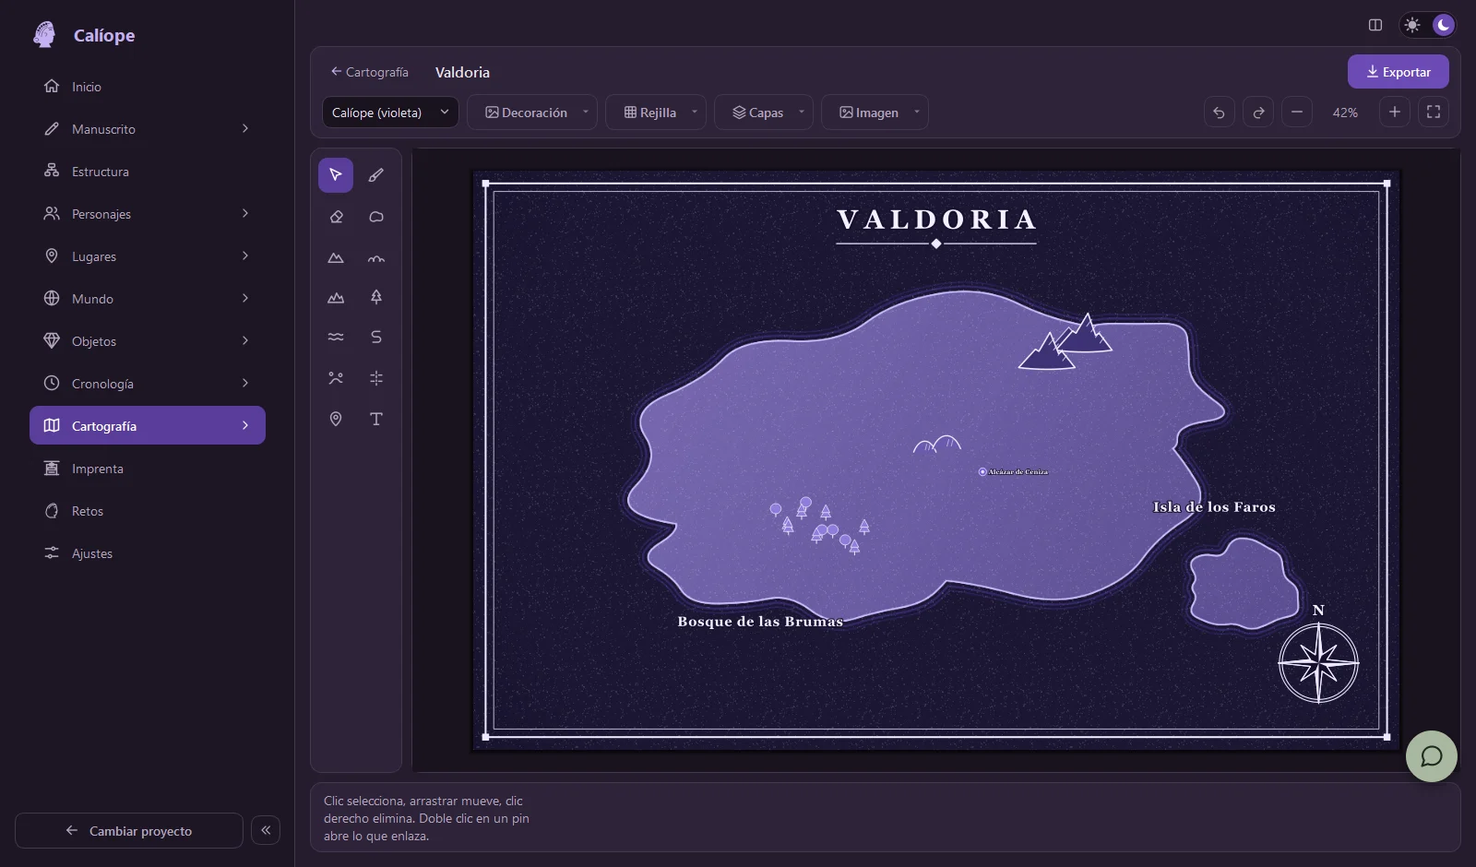
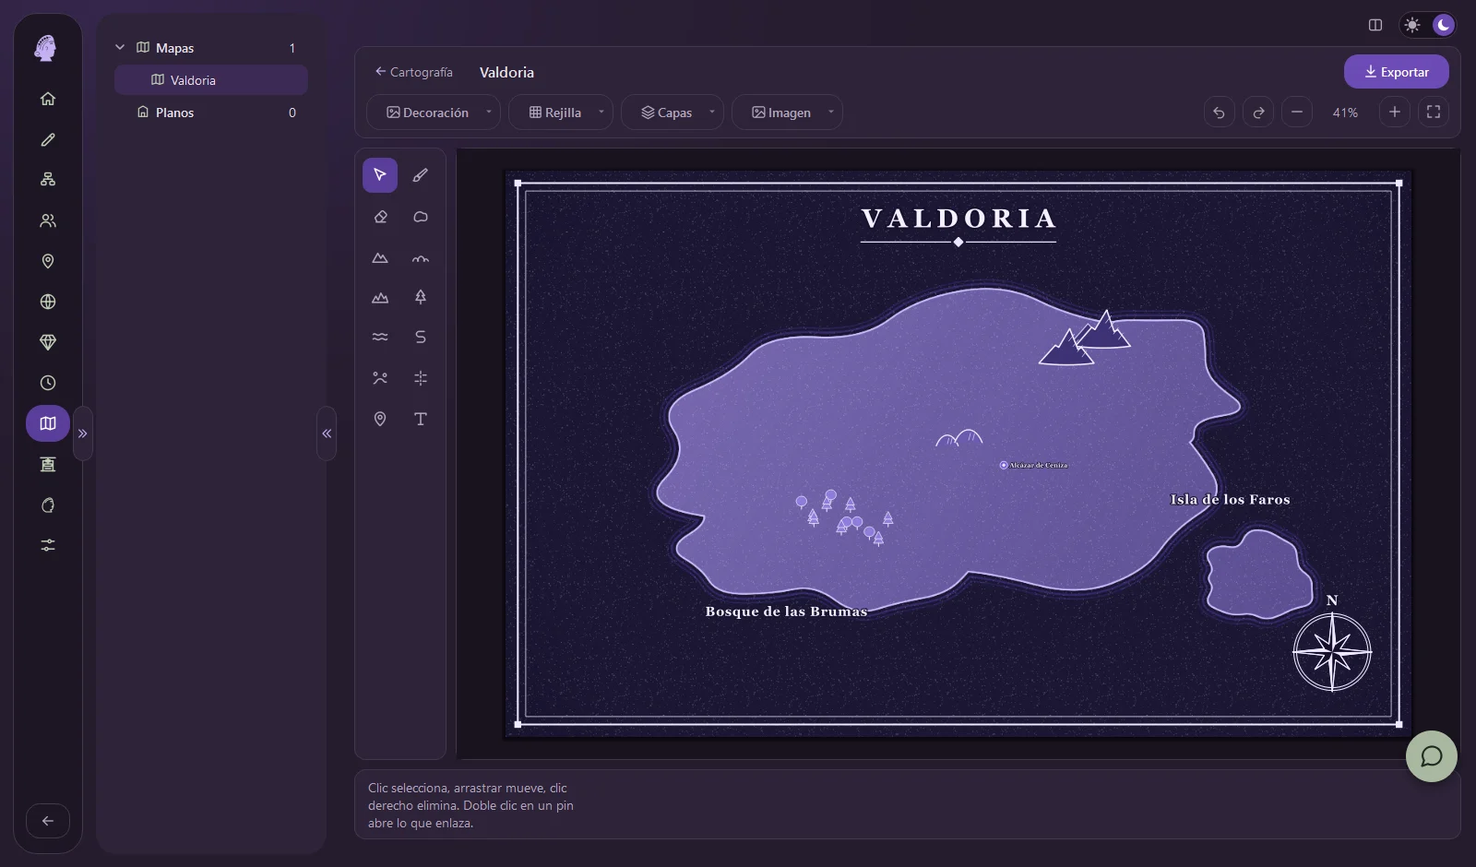
Calíope 2.0: nueva estética, Clío con modos Local e IA, web al día

diff --git a/docs/index.html b/docs/index.html
@@ -3,7 +3,7 @@
 <head>
 <meta charset="utf-8">
 <meta name="viewport" content="width=device-width, initial-scale=1">
-<meta name="caliope-version" content="1.14.2">
+<meta name="caliope-version" content="2.0.0">
 <title>Calíope — Invoca a tus musas. Da vida a tus mundos.</title>
 <meta name="description" content="Calíope es una aplicación de escritorio para escritores: manuscrito con revisión de continuidad, escaleta y matriz de ritmo, personajes, mundo, mapas, cronologías y exportación a EPUB, Kindle, DOCX y PDF. Todo en tu ordenador, sin cuentas ni nube.">
 <meta name="theme-color" content="#1b1422" media="(prefers-color-scheme: dark)">
@@ -31,13 +31,13 @@
         <span class="badge">Gratis · sin cuenta</span>
       </div>
       <div class="cta">
-        <a class="btn win" href="https://github.com/marinaescobar/caliope/releases/download/v1.14.2/Caliope-Setup-1.14.2.exe">
+        <a class="btn win" href="https://github.com/marinaescobar/caliope/releases/download/v2.0.0/Caliope-Setup-2.0.0.exe">
           <svg viewBox="0 0 24 24" fill="currentColor" aria-hidden="true"><path d="M3 5.5 10.5 4.4v7.1H3zm8.5-1.2L21 3v8.5h-9.5zM3 12.5h7.5v7.1L3 18.5zm8.5 0H21V21l-9.5-1.3z"/></svg>
-          <span>Descargar para Windows<small>Instalador .exe · v1.14.2</small></span>
+          <span>Descargar para Windows<small>Instalador .exe · v2.0.0</small></span>
         </a>
-        <a class="btn mac" href="https://github.com/marinaescobar/caliope/releases/download/v1.14.2/Caliope-1.14.2-macOS-arm64.dmg">
+        <a class="btn mac" href="https://github.com/marinaescobar/caliope/releases/download/v2.0.0/Caliope-2.0.0-macOS-arm64.dmg">
           <svg viewBox="0 0 24 24" fill="currentColor" aria-hidden="true"><path d="M16.4 12.6c0-2.3 1.9-3.4 2-3.5-1.1-1.6-2.8-1.8-3.4-1.8-1.4-.1-2.8.9-3.5.9s-1.8-.8-3-.8c-1.5 0-3 .9-3.8 2.3-1.6 2.8-.4 7 1.2 9.3.8 1.1 1.7 2.4 2.9 2.3 1.2 0 1.6-.7 3-.7s1.8.7 3 .7c1.3 0 2.1-1.1 2.8-2.3.9-1.3 1.3-2.5 1.3-2.6-.1 0-2.5-1-2.5-3.8zM14.1 5.8c.6-.8 1.1-1.8.9-2.9-.9 0-2 .6-2.7 1.4-.6.7-1.1 1.8-.9 2.8 1 .1 2-.5 2.7-1.3z"/></svg>
-          <span>Descargar para Mac<small>.dmg · Apple Silicon · v1.14.2</small></span>
+          <span>Descargar para Mac<small>.dmg · Apple Silicon · v2.0.0</small></span>
         </a>
       </div>
     </div>
@@ -87,7 +87,7 @@
       <div class="card" tabindex="0">
         <svg class="ic" viewBox="0 0 24 24" fill="none" stroke="currentColor" stroke-width="1.5" stroke-linecap="round" stroke-linejoin="round" aria-hidden="true"><path d="m3 6 6-2 6 2 6-2v14l-6 2-6-2-6 2z"/><path d="M9 4v14M15 6v14"/></svg>
         <h3>Cartografía</h3>
-        <p>Mapas de mundos y planos de ciudades con estilos, rejilla, símbolos y <b>pines que abren la ficha</b> del lugar. Exporta a imagen.</p>
+        <p>Mapas de mundos y planos de ciudades con capas, rejilla, símbolos y <b>pines que abren la ficha</b> del lugar. Exporta a imagen.</p>
       </div>
       <div class="card" tabindex="0">
         <svg class="ic" viewBox="0 0 24 24" fill="none" stroke="currentColor" stroke-width="1.5" stroke-linecap="round" stroke-linejoin="round" aria-hidden="true"><path d="m12 3 9 5-9 5-9-5z"/><path d="m3 13 9 5 9-5M3 17.5l9 5 9-5" opacity=".6"/></svg>
@@ -101,6 +101,7 @@
       </div>
     </div>
     <div class="chips">
+      <span class="chip">Nueva estética 2.0</span>
       <span class="chip">Tema oscuro y claro</span>
       <span class="chip">Español e inglés</span>
       <span class="chip">Corrector y sinónimos offline</span>
@@ -137,7 +138,7 @@
         <div class="panel p2"><div class="frame"><img src="img/escaleta.webp" width="1600" height="720" alt="Escaleta de Calíope organizada por actos, con tarjetas de escena y su punto de vista"></div><p>La escaleta por actos, con subtramas de color y tarjetas de escena o de capítulo.</p></div>
         <div class="panel p3"><div class="frame"><img src="img/personajes.webp" width="1600" height="940" alt="Ficha de personaje con enlaces a su dinastía, sus escenas y sus posesiones"></div><p>Fichas enlazadas: del personaje a su dinastía, sus escenas y lo que posee.</p></div>
         <div class="panel p4"><div class="frame"><img src="img/relaciones.webp" width="1600" height="940" alt="Mapa de relaciones de un personaje con sus vínculos de colores"></div><p>Quién es quién para quién, con vínculos que se adaptan al género de cada ficha.</p></div>
-        <div class="panel p5"><div class="frame"><img src="img/genealogias.webp" width="1600" height="940" alt="Árbol genealógico de la Casa Marwen en estilo elegante"></div><p>Árboles con líneas rectas y sin cruces, en tres estilos.</p></div>
+        <div class="panel p5"><div class="frame"><img src="img/genealogias.webp" width="1600" height="940" alt="Árbol genealógico de la Casa Marwen"></div><p>Árboles con líneas rectas y sin cruces, con el lema y el emblema de cada casa.</p></div>
         <div class="panel p6"><div class="frame"><img src="img/cronologia.webp" width="1600" height="940" alt="Línea temporal de un mundo inventado con un calendario propio y dos edades"></div><p>Líneas temporales con un calendario inventado y edades a tu medida.</p></div>
         <div class="panel p7"><div class="frame"><img src="img/mapa.webp" width="1600" height="940" alt="Editor de mapas con un continente de fantasía, título y rosa de los vientos"></div><p>Mapas de mundos y ciudades con pines enlazados a tus fichas.</p></div>
       </div>
@@ -239,12 +240,12 @@
             <p>Un mapa de vínculos y árboles genealógicos que se mantienen iguales entre sí: dibujas uno y el otro se entera.</p>
             <ul class="list">
               <li><b>Más de noventa tipos de vínculo</b> que se adaptan al género de cada ficha («Hija», «Hijo», «Hije»).</li>
-              <li>Árboles con <b>líneas rectas y sin cruces</b>, en tres estilos: minimalista, elegante y fantasía.</li>
+              <li>Árboles con <b>líneas rectas y sin cruces</b>, que se ordenan solos por generaciones.</li>
               <li>Relaciones de familia y árboles <b>sincronizados en los dos sentidos</b>.</li>
               <li>Dinastías con lema, familiares sin ficha y acceso directo a cada personaje.</li>
             </ul>
           </div>
-          <div class="frame"><div class="bar"><i></i><i></i><i></i></div><img src="img/genealogias.webp" width="1600" height="940" alt="Árbol genealógico de la Casa Marwen en estilo elegante, con líneas rectas y sin cruces" loading="lazy"></div>
+          <div class="frame"><div class="bar"><i></i><i></i><i></i></div><img src="img/genealogias.webp" width="1600" height="940" alt="Árbol genealógico de la Casa Marwen, con líneas rectas y sin cruces" loading="lazy"></div>
         </div>
       </details>
       <details name="mas">
@@ -334,7 +335,7 @@
         </summary>
         <div class="body">
           <div>
-            <p>Tu escena a un lado y, al otro, otra escena, un capítulo o la ficha de un personaje, un lugar, una entrada del Mundo o un objeto.</p>
+            <p>Tu escena a un lado y, al otro, <b>cualquier sección de Calíope</b>: otra escena, una ficha, la Escaleta, la Cronología o un mapa.</p>
             <ul class="list">
               <li>En <b>columnas</b> si hay sitio y en <b>filas</b> cuando la ventana se estrecha, para que el texto siga cómodo de leer.</li>
               <li>Se abre con el botón de arriba a la derecha o con clic derecho › <b>«Abrir en división de pantalla»</b>.</li>
@@ -342,7 +343,7 @@
               <li>Nunca se divide en el Modo Foco ni en el Ultra Foco.</li>
             </ul>
           </div>
-          <div class="splitviz" role="img" aria-label="Ilustración de una pantalla dividida: a la izquierda una escena y a la derecha la ficha de un personaje, separadas por una línea fina">
+          <div class="splitviz" role="img" aria-label="Ilustración de una pantalla dividida: a la izquierda una escena y a la derecha la ficha de un personaje">
             <div class="pane"><b>Escena</b><i></i><i></i><i class="s"></i><i></i><i class="s"></i></div>
             <div class="pane"><b>Personaje</b><i class="s"></i><i></i><i class="s"></i><i></i><i></i></div>
           </div>
@@ -402,19 +403,23 @@
     <div class="sec-head c">
       <span class="eyebrow">Más compañía, si la quieres</span>
       <h2>¿Y si llamamos a más musas?</h2>
-      <p>Calíope ya está contigo. Si te apetece algo más de compañía, hay dos musas más. Las dos son opcionales y se apagan desde Ajustes.</p>
+      <p>Calíope ya está contigo. Si te apetece algo más de compañía, hay dos musas más. Las dos son opcionales y se apagan desde Ajustes. Pasa el ratón por una, o púlsala, para verla en acción.</p>
     </div>
     <div class="muses">
       <article class="muse" tabindex="0">
         <img src="assets/clio.png" width="64" height="64" alt="Retrato de Clío" loading="lazy">
-        <h3>Clío <span class="tag ai">Usa IA</span> <span class="tag">Opcional</span></h3>
+        <h3>Clío <span class="tag noai">Local · sin IA</span> <span class="tag ai">IA · opcional</span></h3>
         <div class="role">La musa de la investigación</div>
-        <p>Un chat para dudas factuales: una fecha, una costumbre, el nombre de una pieza de armadura.</p>
-        <p>Es la <b>única parte de Calíope con inteligencia artificial</b> y está <b>aislada de tu proyecto</b>: no lee tu manuscrito, tus fichas ni tu base de datos. Solo recibe lo que le preguntes en su chat, con tu propia clave.</p>
-        <div class="example" aria-label="Ejemplo de una conversación con Clío">
-          <span class="ex-label">Así se ve su chat</span>
+        <p>Un chat con dos modos, que cambias con un clic en la etiqueta junto a su nombre.</p>
+        <p><b>Local</b>, con el que empieza siempre: <b>no es una IA</b>. Busca en tus fichas y escenas y te recuerda cualquier dato de tu historia. Nada sale de tu ordenador.</p>
+        <p><b>IA</b>, para dudas de historia, ciencia o geografía: es la <b>única parte de Calíope con inteligencia artificial</b> y está <b>aislada de tu proyecto</b>. Solo recibe lo que le preguntes en su chat, con tu propia clave.</p>
+        <div class="example" aria-label="Ejemplo de una conversación con Clío en cada modo">
+          <span class="ex-label">Clío <span class="pill local">Local</span></span>
+          <div class="bubble you">¿Cuánto mide Ilena?</div>
+          <div class="bubble bot">La altura de Ilena es 1,68 m.</div>
+          <span class="ex-label">Clío <span class="pill ia">IA</span></span>
           <div class="bubble you">¿Qué es una brigantina?</div>
-          <div class="bubble bot">Una armadura medieval de tela o cuero con pequeñas placas de metal remachadas por dentro: más flexible que una cota de placas y más ligera de llevar.</div>
+          <div class="bubble bot">Una armadura medieval de tela o cuero con pequeñas placas de metal remachadas por dentro.</div>
         </div>
       </article>
       <article class="muse" tabindex="0">
@@ -438,18 +443,18 @@
 <section id="descargar" class="s-deep">
   <div class="wrap">
     <div class="sec-head c" style="margin-bottom:0">
-      <span class="eyebrow">Versión 1.14.2</span>
+      <span class="eyebrow">Versión 2.0.0</span>
       <h2>Empieza a escribir hoy</h2>
       <p>Gratis, sin registro y sin conexión. Elige tu sistema.</p>
     </div>
     <div class="cta">
-      <a class="btn win" href="https://github.com/marinaescobar/caliope/releases/download/v1.14.2/Caliope-Setup-1.14.2.exe">
+      <a class="btn win" href="https://github.com/marinaescobar/caliope/releases/download/v2.0.0/Caliope-Setup-2.0.0.exe">
         <svg viewBox="0 0 24 24" fill="currentColor" aria-hidden="true"><path d="M3 5.5 10.5 4.4v7.1H3zm8.5-1.2L21 3v8.5h-9.5zM3 12.5h7.5v7.1L3 18.5zm8.5 0H21V21l-9.5-1.3z"/></svg>
-        <span>Windows<small>Caliope-Setup-1.14.2.exe</small></span>
+        <span>Windows<small>Caliope-Setup-2.0.0.exe</small></span>
       </a>
-      <a class="btn mac" href="https://github.com/marinaescobar/caliope/releases/download/v1.14.2/Caliope-1.14.2-macOS-arm64.dmg">
+      <a class="btn mac" href="https://github.com/marinaescobar/caliope/releases/download/v2.0.0/Caliope-2.0.0-macOS-arm64.dmg">
         <svg viewBox="0 0 24 24" fill="currentColor" aria-hidden="true"><path d="M16.4 12.6c0-2.3 1.9-3.4 2-3.5-1.1-1.6-2.8-1.8-3.4-1.8-1.4-.1-2.8.9-3.5.9s-1.8-.8-3-.8c-1.5 0-3 .9-3.8 2.3-1.6 2.8-.4 7 1.2 9.3.8 1.1 1.7 2.4 2.9 2.3 1.2 0 1.6-.7 3-.7s1.8.7 3 .7c1.3 0 2.1-1.1 2.8-2.3.9-1.3 1.3-2.5 1.3-2.6-.1 0-2.5-1-2.5-3.8zM14.1 5.8c.6-.8 1.1-1.8.9-2.9-.9 0-2 .6-2.7 1.4-.6.7-1.1 1.8-.9 2.8 1 .1 2-.5 2.7-1.3z"/></svg>
-        <span>Mac · Apple Silicon<small>Caliope-1.14.2-macOS-arm64.dmg</small></span>
+        <span>Mac · Apple Silicon<small>Caliope-2.0.0-macOS-arm64.dmg</small></span>
       </a>
     </div>
     <div class="steps">

diff --git a/docs/css/style.css b/docs/css/style.css
@@ -264,3 +264,57 @@ footer .links{display:flex;flex-wrap:wrap;gap:8px 22px}
 @media (prefers-color-scheme:light){.more details{background:var(--card)}}
 @media (prefers-reduced-motion:reduce){.more details[open] .body{animation:none}}
 .more summary,.more .sample,.more .splitviz{-webkit-user-select:none;user-select:none}
+
+/* ===== Estética Bento (2.0): islas redondeadas sin bordes, botones píldora, un solo brillo de fondo y barras finas moradas ===== */
+html{scrollbar-width:thin;scrollbar-color:var(--accent) transparent}
+.hero{background:radial-gradient(ellipse 55% 70% at 100% 100%,color-mix(in srgb,var(--sage) 20%,transparent) 0%,transparent 70%),
+  radial-gradient(ellipse 70% 90% at 12% 0%,color-mix(in srgb,var(--accent) 26%,var(--deep)) 0%,var(--deep) 62%)}
+.btn{border-radius:999px;padding:12px 24px}
+.frame{border-radius:22px;border-color:transparent}
+.frame .bar{border-bottom-color:transparent}
+.card,.muse,.step,.more details,.sample,.splitviz{border-radius:22px;border-color:transparent}
+.card:hover,.muse:hover,.step:hover,.more details:hover,.more details[open]{border-color:var(--sage)}
+.step{background:var(--card)}
+.cmd{border-radius:16px;border-color:transparent}
+.badge,.chip{border-color:transparent;background:var(--card)}
+.s-mid .chip{background:var(--sidebar)}
+.fmt{border-radius:999px;background:var(--sage);color:var(--on-sage)}
+.tabs{display:flex;width:fit-content;max-width:100%;margin:0 auto 20px;padding:4px;gap:4px;border-radius:24px;background:var(--deep);border:1px solid var(--border)}
+.tabs label{border:0;display:inline-flex;align-items:center}
+.more summary:focus-visible{border-radius:22px}
+.tag{border-color:transparent}
+.tag.ai,.tag.noai{border-color:transparent}
+.tag.ai{background:color-mix(in srgb,#D9824B 24%,transparent);color:#E0A070}
+.tag.noai{background:color-mix(in srgb,var(--accent) 24%,transparent);color:var(--accent-text)}
+.muse .ex-label{display:flex;align-items:center;gap:8px;text-transform:none;letter-spacing:0;font-size:.95rem;font-weight:700;color:var(--text);margin-top:4px}
+.muse .pill{font-size:.72rem;font-weight:500;padding:2px 10px;border-radius:999px}
+.muse .pill.local{background:color-mix(in srgb,var(--accent) 24%,transparent);color:var(--accent-text)}
+.muse .pill.ia{background:color-mix(in srgb,#D9824B 24%,transparent);color:#E0A070}
+.muse .bubble{border-radius:16px}
+.muse .bubble.you{background:var(--sage);color:var(--on-sage)}
+.muse .bubble.bot{border-color:transparent;background:var(--deep)}
+.muse .toast{border-radius:16px;border-color:transparent;border-left:3px solid var(--accent-text)}
+.muse:hover .example,.muse:focus .example,.muse:focus-within .example{max-height:460px}
+@media (hover:none){.muse .example{max-height:460px}}
+@media (prefers-color-scheme:light){
+  .tag.ai,.muse .pill.ia{color:#8A5630}
+  .badge,.chip{border-color:var(--border)}
+}
+@media (max-width:767px){.tabs{border-radius:20px;justify-content:center}}
+
+/* El verde salvia de Calíope, con más presencia: iconos en ficha salvia, una franja entera y detalles */
+.card .ic,.more summary .ic{background:var(--sage);color:var(--on-sage);border-radius:9px;box-shadow:0 0 0 8px var(--sage)}
+.more summary .ic{margin:0 8px}
+.more summary{gap:18px}
+.cmd svg{color:var(--on-sage);background:var(--sage);box-shadow:0 0 0 6px var(--sage);animation:none;margin:0 6px}
+.chip{color:var(--sage-text)}
+.muse .role{font-weight:600}
+#privacidad{background:var(--sage)}
+#privacidad .eyebrow,#privacidad .sec-head h2{color:var(--on-sage)}
+#privacidad .sec-head p{color:color-mix(in srgb,var(--on-sage) 82%,var(--sage))}
+#privacidad .card{background:var(--deep)}
+#privacidad .card h3{color:var(--sage-text)}
+#privacidad .card:hover,#privacidad .card:focus-visible{border-color:var(--on-sage)}
+#descargar .sec-head h2{color:var(--sage-text)}
+.step h3{color:var(--sage-text)}
+footer{border-top:3px solid var(--sage)}

diff --git a/README.md b/README.md
@@ -12,11 +12,11 @@ Aplicación de escritorio para escritores: organiza tu novela en partes, capítu
 
 ## ⬇ Descargar
 
-<a href="https://github.com/marinaescobar/caliope/releases/download/v1.14.2/Caliope-Setup-1.14.2.exe"><img src="https://img.shields.io/badge/Descargar%20para-Windows%20(.exe)-6C4AB6?style=for-the-badge&logo=windows&logoColor=white" alt="Descargar para Windows"></a>
+<a href="https://github.com/marinaescobar/caliope/releases/download/v2.0.0/Caliope-Setup-2.0.0.exe"><img src="https://img.shields.io/badge/Descargar%20para-Windows%20(.exe)-6C4AB6?style=for-the-badge&logo=windows&logoColor=white" alt="Descargar para Windows"></a>
 &nbsp;
-<a href="https://github.com/marinaescobar/caliope/releases/download/v1.14.2/Caliope-1.14.2-macOS-arm64.dmg"><img src="https://img.shields.io/badge/Descargar%20para-Mac%20Apple%20Silicon%20(.dmg)-A8B89F?style=for-the-badge&logo=apple&logoColor=1F2820&labelColor=A8B89F&color=A8B89F" alt="Descargar para Mac con Apple Silicon"></a>
+<a href="https://github.com/marinaescobar/caliope/releases/download/v2.0.0/Caliope-2.0.0-macOS-arm64.dmg"><img src="https://img.shields.io/badge/Descargar%20para-Mac%20Apple%20Silicon%20(.dmg)-A8B89F?style=for-the-badge&logo=apple&logoColor=1F2820&labelColor=A8B89F&color=A8B89F" alt="Descargar para Mac con Apple Silicon"></a>
 
-<sub>Versión 1.14.2 · [Página web](https://marinaescobar.github.io/caliope/) · [Todas las versiones y novedades](https://github.com/marinaescobar/caliope/releases)</sub>
+<sub>Versión 2.0.0 · [Página web](https://marinaescobar.github.io/caliope/) · [Todas las versiones y novedades](https://github.com/marinaescobar/caliope/releases)</sub>
 
 </div>
 
@@ -24,8 +24,8 @@ Aplicación de escritorio para escritores: organiza tu novela en partes, capítu
 
 | Tu equipo | Archivo | Enlace directo |
 |---|---|---|
-| 🪟 **Windows** 10 / 11 | `Caliope-Setup-1.14.2.exe` | [Descargar](https://github.com/marinaescobar/caliope/releases/download/v1.14.2/Caliope-Setup-1.14.2.exe) |
-| 🍎 **Mac con chip Apple** (M1, M2, M3, M4…) | `Caliope-1.14.2-macOS-arm64.dmg` | [Descargar](https://github.com/marinaescobar/caliope/releases/download/v1.14.2/Caliope-1.14.2-macOS-arm64.dmg) |
+| 🪟 **Windows** 10 / 11 | `Caliope-Setup-2.0.0.exe` | [Descargar](https://github.com/marinaescobar/caliope/releases/download/v2.0.0/Caliope-Setup-2.0.0.exe) |
+| 🍎 **Mac con chip Apple** (M1, M2, M3, M4…) | `Caliope-2.0.0-macOS-arm64.dmg` | [Descargar](https://github.com/marinaescobar/caliope/releases/download/v2.0.0/Caliope-2.0.0-macOS-arm64.dmg) |
 
 ### Instalar en Windows
 Ejecuta el `.exe` y sigue el asistente (no necesita permisos de administrador). Si Windows SmartScreen avisa, pulsa **Más información › Ejecutar de todas formas**: el instalador aún no está firmado.
@@ -45,7 +45,7 @@ Calíope busca e instala actualizaciones desde **Ajustes › Información de Cal
 
 - **Manuscrito** por partes, capítulos y escenas, con propósito, resumen e ideas en cada nivel, importación de manuscritos (`.docx`, `.pdf`, `.txt`) y un panel de análisis con gráficos y recomendaciones.
 - **Formato de texto** en las escenas: negrita, cursiva, subrayado y tachado (`Ctrl+B`, `Ctrl+I`, `Ctrl+U`, `Ctrl+Mayús+X` o los botones de la barra). Se guarda con la escena y con cada versión, viaja en las copias `.clp` y llega a la exportación (EPUB, Kindle, DOCX y PDF).
-- **Pantalla dividida**: abre al lado de lo que haces otra escena, un capítulo o la ficha de un personaje, un lugar, una entrada del Mundo o un objeto (botón de arriba a la derecha o clic derecho › «Abrir en división de pantalla»). En columnas si hay sitio y en filas si la ventana se estrecha; nunca en el Modo Foco ni en el Ultra Foco.
+- **Pantalla dividida**: abre al lado de lo que haces cualquier otra sección de Calíope, o una escena, un capítulo o una ficha (botón de arriba a la derecha o clic derecho › «Abrir en división de pantalla»). En columnas si hay sitio y en filas si la ventana se estrecha; nunca en el Modo Foco ni en el Ultra Foco.
 - **Continuidad** (pestaña del Manuscrito, 100 % local y sin IA): cruza tus escenas con tus fichas y cronologías y avisa de apellidos y nombres que cambian o llevan una errata, de rasgos que no casan con la ficha (ojos, cabello, religión, gobierno, clima…), de una prenda o una narración que cambia dentro de la escena y de personajes que aparecen tras su muerte. «Corregir» respeta género y número; «Ignorar…» guarda tu motivo.
 - **Inicio** con tu racha y meta, los avisos de Continuidad sin revisar y los datos de ritmo de la Matriz, y **aviso de versión nueva** al abrir Calíope (pulsarlo descarga e instala la actualización).
 - **Ficha de personaje** con sus familias, escenas, POVs, cronologías y posesiones en desplegables con buscador.
@@ -57,7 +57,8 @@ Calíope busca e instala actualizaciones desde **Ajustes › Información de Cal
 - **Objetos y artefactos**: armas y armaduras, reliquias, vestimenta, vehículos, documentos y herramientas, con ficha por categoría, ilustración, portador y ubicación enlazados a tus personajes y lugares (cada personaje tiene su inventario y cada lugar, sus objetos presentes).
 - **Cronología**: líneas temporales con eventos (fechas, imágenes, descripción), Edades como «Edad Media» con su color, y **calendarios** incluidos (gregoriano, juliano, chino, hebreo, islámico…) o creados por ti, con sus meses, su semana y su origen. La fecha se escribe (`2025-05-10`) o se elige en un calendario emergente construido con la estructura del calendario.
 - **Retos de Talía**: meta diaria de palabras, racha de días, desafíos creativos y Modo Foco con temporizador y avisos discretos de Talía que te acompañan mientras escribes (saludo diario, metas, rachas, retos, insignias y fichas completadas) y, con la aplicación abierta, comenta cada media hora tu historia y tu Mundo con preguntas, curiosidades y consejos. **Talía no es una IA** ([cómo funciona](#talía-no-es-una-ia)): todo ocurre en tu equipo y se ajusta o se desactiva en Ajustes.
-- **Clío**, una musa de la investigación para dudas factuales. Es la única parte de Calíope que usa inteligencia artificial.
+- **Clío**, la musa de la investigación, con dos modos que cambias con un clic. **Local** (por defecto): no es una IA; busca en tus fichas y escenas para recordarte cualquier dato de tu historia, sin que nada salga de tu equipo. **IA**: para dudas factuales (historia, ciencia, geografía…); es la única parte de Calíope que usa inteligencia artificial y no ve tu proyecto.
+- **Nueva estética** (2.0): menú y submenú en islas flotantes, tarjetas redondeadas sin bordes y una sola estética en Escaleta, Genealogías y Cronología.
 - **Modo Ultra Foco** (opcional, en Ajustes): sustituye al Modo Foco con una pantalla completa de lienzo estrecho, **22 ambientes reales** (lluvia, bosque, agua, fuego, noche, cafeterías…), dos grabaciones de **máquina de escribir** a elegir, ocho fondos con vista previa y selección de la salida de audio. Todo en local; créditos de los sonidos en [`THIRD_PARTY.md`](THIRD_PARTY.md).
 - Tema oscuro y claro, e interlineado, tipo de letra y sangría a tu gusto.
 
@@ -85,15 +86,16 @@ diccionarios que funcionan sin conexión.
 
 **Cómo se ajusta.** En **Ajustes › Módulo de Retos de Talía** puedes desactivarla por completo, silenciar sus avisos o elegir cada cuánto comenta tu historia.
 
-**¿Y Clío?** Clío, la musa de la investigación, **sí usa inteligencia artificial** (un modelo de Google Gemini al que le haces preguntas con tu propia clave).
-Es la única que sale de tu ordenador, y solo envía lo que escribes en su chat; ver [Privacidad](#privacidad).
+**¿Y Clío?** Clío, la musa de la investigación, tiene dos modos. En **Local** (con el que arranca siempre) tampoco es una IA: busca en tus fichas
+y escenas, en tu equipo. En modo **IA** **sí usa inteligencia artificial** (un modelo de Google Gemini al que le haces preguntas con tu propia clave):
+es lo único que sale de tu ordenador, y solo envía lo que escribes en su chat; ver [Privacidad](#privacidad).
 
 ## Privacidad
 
 Tus proyectos se guardan solo en tu equipo. Talía, el corrector y los sinónimos funcionan **sin conexión y sin IA**: ningún dato de tu proyecto sale de tu ordenador.
-La única parte que se conecta a internet es **Clío**, y **no usa ningún dato introducido en Calíope**: únicamente recibe lo que escribas en su chat.
+La única parte que se conecta a internet es **Clío en su modo IA**, y entonces **no usa ningún dato introducido en Calíope**: únicamente recibe lo que escribas en su chat
+(al cambiar de modo la conversación se borra, así que nada de lo hablado en Local llega a la IA). En modo **Local**, Clío sí consulta tu proyecto, pero sin IA y sin salir de tu equipo.
 Si prefieres no usarla, desmarca **Ajustes › Mostrar a Clío** y su chat se oculta.
-
 
 ## Licencias de terceros
 
